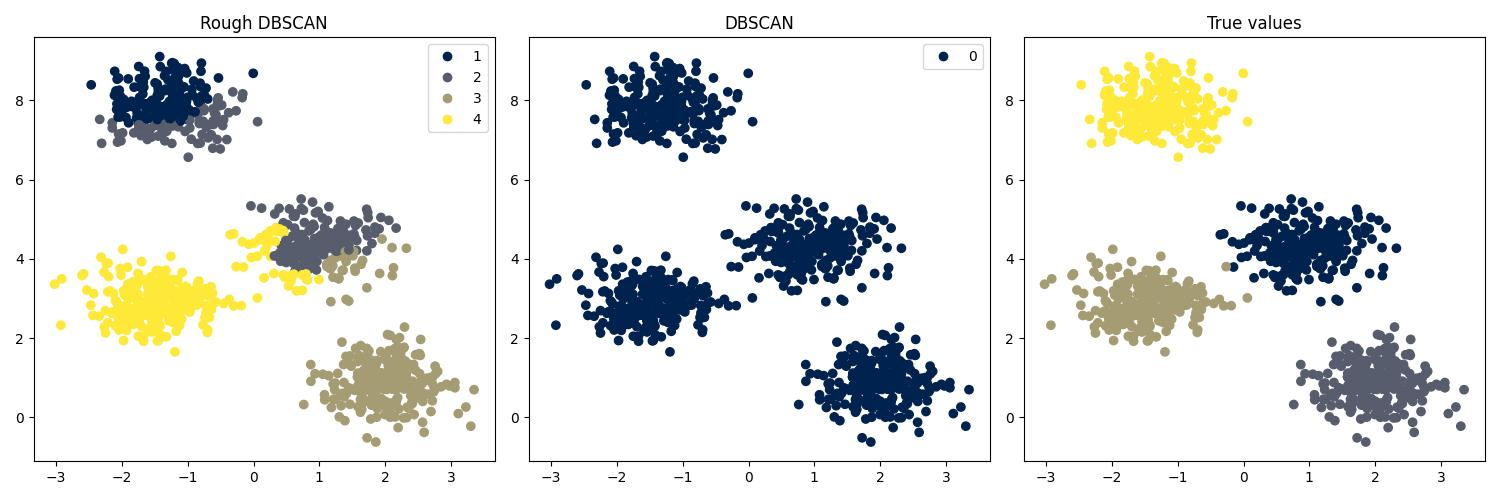
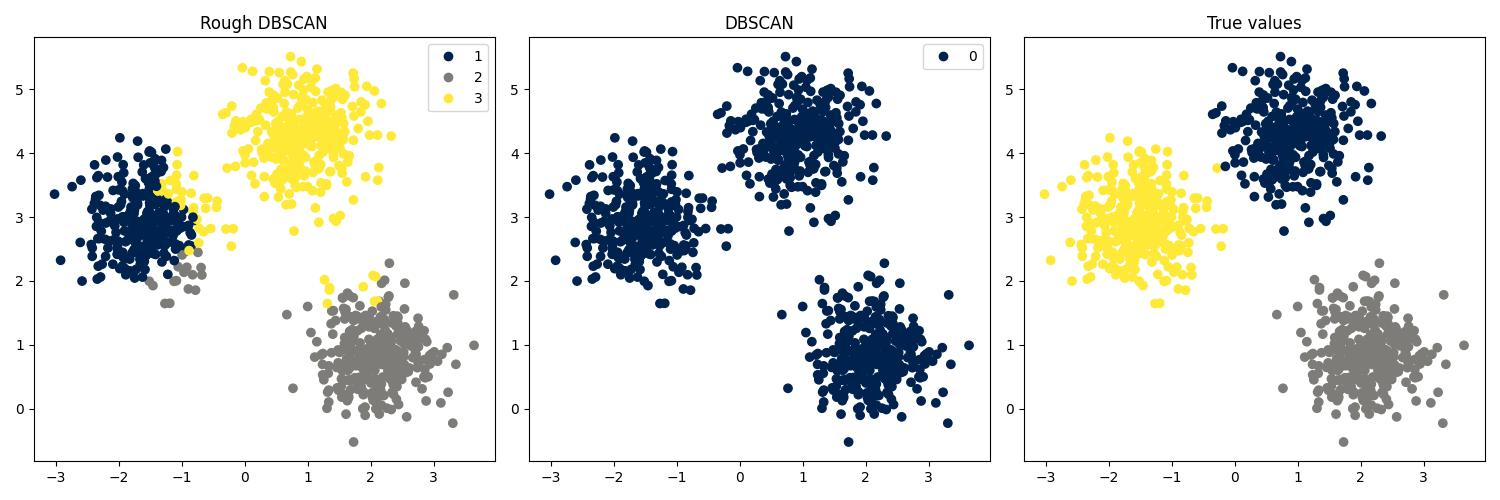
Refactor Experiments

diff --git a/utils/experiments.py b/utils/experiments.py
@@ -1,0 +1,118 @@
+
+import os
+import time
+import matplotlib.pyplot as plt
+
+from models.Rough_DBSCAN import Rough_DBSCAN
+from sklearn.cluster import DBSCAN
+from sklearn.metrics.cluster import rand_score
+
+
+def experiment(X, Y, epsilon, minPts, radius, root_saving="../visuals/", verbose=True):
+
+    if verbose:
+        print("\nStarting RoughDBSCAN")
+        print(f"Parameters: Epsilon={epsilon}, MinPts={minPts}, Radius={radius}")
+    rdbscan = Rough_DBSCAN(epsilon, minPts, radius)
+
+    if verbose:
+        print("Fitting...")
+
+    toR = time.time()
+    predictR = rdbscan.fit_predict(X, verbose=verbose)
+    tfR = time.time() - toR
+
+    if verbose:
+        print(predictR)
+        print("\nStarting DBSCAN")
+        print(f"Parameters: Epsilon={epsilon}, MinPts={minPts}")
+    dbscan = DBSCAN(eps=epsilon, min_samples=minPts)
+
+    if verbose:
+        print("Fitting...")
+    toD = time.time()
+    predictD = dbscan.fit_predict(X)
+    tfD = time.time() - toD
+
+    if verbose:
+        print(predictD)
+        print("\nPlotting results")
+
+    generate_plots(X, Y, predictR, rdbscan.leaders, tfR, predictD, tfD,
+                   radius, root_saving=root_saving)
+
+
+def generate_plots(X, Y, predictR, leaders, tfR, predictD, tfD,
+                   radius, root_saving="../visuals/", cmap_plots="cividis"):
+
+    # Create folder
+    if not os.path.exists(root_saving):
+        os.makedirs(root_saving)
+
+
+    # Results RDBSCAN
+    fig, (ax1, ax2, ax3) = plt.subplots(1, 3, figsize=(15, 5))
+
+    scatter1 = ax1.scatter(X[:, 0], X[:, 1], c=predictR, cmap=cmap_plots, label=predictR)
+    ax1.legend(*scatter1.legend_elements())
+    ax1.set_title("Rough DBSCAN")
+
+    ax2.scatter(X[:, 0], X[:, 1], c=Y, cmap=cmap_plots)
+    for pts in leaders:
+        ax2.scatter(pts[0], pts[1], c="crimson")
+        circle = plt.Circle(xy=(pts[0], pts[1]), radius=radius, color="crimson", alpha=0.25)
+        ax2.add_patch(circle)
+    ax2.set_title("Leaders")
+
+    ax3.scatter(X[:, 0], X[:, 1], c=Y, cmap=cmap_plots)
+    ax3.set_title("True values")
+
+    plt.tight_layout()
+    plt.savefig(root_saving + "rdbscan_all.jpg")
+
+
+    # Leaders RDBSCAN
+    fig, ax = plt.subplots(1, 1, figsize=(8, 8))
+    ax.scatter(X[:, 0], X[:, 1], c=Y, cmap=cmap_plots)
+    for pts in leaders:
+        ax.scatter(pts[0], pts[1], c="crimson")
+        circle = plt.Circle(xy=(pts[0], pts[1]), radius=radius, color="crimson", alpha=0.25)
+        ax.add_patch(circle)
+    ax.set_title("Leaders")
+
+    plt.tight_layout()
+    plt.savefig(root_saving + "rdbscan_leaders.jpg")
+
+
+    # Results DBSCAN vs RDBSCAN
+    fig, (ax1, ax2, ax3) = plt.subplots(1, 3, figsize=(15, 5))
+
+    scatter1 = ax1.scatter(X[:, 0], X[:, 1], c=predictR, cmap=cmap_plots, label=predictR)
+    ax1.legend(*scatter1.legend_elements())
+    ax1.set_title("Rough DBSCAN")
+
+    scatter2 = ax2.scatter(X[:, 0], X[:, 1], c=predictD, cmap=cmap_plots, label=predictD)
+    ax2.legend(*scatter2.legend_elements())
+    ax2.set_title("DBSCAN")
+
+    ax3.scatter(X[:, 0], X[:, 1], c=Y, cmap=cmap_plots)
+    ax3.set_title("True values")
+
+    plt.tight_layout()
+    plt.savefig(root_saving + "comparison_models.jpg")
+
+
+    # Metrics DBSCAN vs RDBSCAN
+    fig, (ax1, ax2) = plt.subplots(1, 2, figsize=(10, 5))
+
+    bar1 = ax1.bar(["Rough DBSCAN", "DBSCAN"], [rand_score(Y, predictR), rand_score(Y, predictD)], color=["tab:orange", "tab:cyan"])
+    ax1.bar_label(bar1, fmt='%.2f')
+    ax1.set_ylim([0, 1])
+    ax1.set_title("Rand Index")
+
+    bar2 = ax2.bar(["Rough DBSCAN", "DBSCAN"], [tfR, tfD], color=["tab:orange", "tab:cyan"])
+    ax2.bar_label(bar2, fmt='%.2f')
+    ax2.set_title("Time")
+
+    plt.tight_layout()
+    plt.savefig(root_saving + "metrics_models.jpg")

diff --git a/experiments/experiment_blobs.py b/experiments/experiment_blobs.py
@@ -1,53 +1,22 @@
 
-from models.Rough_DBSCAN import Rough_DBSCAN
-from utils.metrics import generate_results
-from sklearn.cluster import DBSCAN
-from sklearn.datasets import make_blobs
-
-import time
+from utils.datasets import blobs
+from utils.experiments import experiment
 
 root_saving = "../visuals/blobs/"
 
 
-
 if __name__ == "__main__":
 
-    print("\n-------- Starting Test --------\n")
+    # Hyperparameters
     n_samples = 1000
-    centers = 4
+    centers = 3
     cluster_std = 0.5
 
-    epsilon = 4
-    minPts = 10
-    radius = 0.45
+    epsilon = 2.45
+    minPts = 30
+    radius = 0.4
 
 
-    print("Generating BLOBS dataset")
-    X, Y = make_blobs(n_samples=n_samples, centers=centers, cluster_std=cluster_std, random_state=0)
-
-
-    print("Starting RoughDBSCAN")
-    print(f"Parameters: Epsilon={epsilon}, MinPts={minPts}, Radius={radius}")
-    rdbscan = Rough_DBSCAN(epsilon, minPts, radius)
-
-    print("Fitting...")
-    toR = time.time()
-    predictR = rdbscan.fit_predict(X)
-    tfR = time.time() - toR
-    print(predictR)
-
-
-    print("\nStarting DBSCAN")
-    print(f"Parameters: Epsilon={epsilon}, MinPts={minPts}")
-    dbscan = DBSCAN(eps=epsilon, min_samples=minPts)
-
-    print("Fitting...")
-    toD = time.time()
-    predictD = dbscan.fit_predict(X)
-    tfD = time.time() - toD
-    print(predictD)
-
-
-    print("\nPlotting results")
-    generate_results(X, Y, predictR, rdbscan.leaders, tfR, predictD, tfD,
-                     epsilon, minPts, radius, root_saving)
+    # Execute experiments
+    X, Y = blobs(n_samples=n_samples, centers=centers, cluster_std=cluster_std, random_state=0)
+    experiment(X=X, Y=Y, epsilon=epsilon, minPts=minPts, radius=radius, root_saving=root_saving)

diff --git a/utils/datasets.py b/utils/datasets.py
@@ -1,0 +1,38 @@
+
+from sklearn.datasets import make_moons
+from sklearn.datasets import make_blobs
+
+
+def banana(n_samples, noise, random_state=0, verbose=True):
+    if verbose:
+        print("\n-------- Starting Test --------\n")
+        print("Generating BANANA dataset")
+    return make_moons(n_samples=n_samples, noise=noise, random_state=random_state)
+
+
+def blobs(n_samples, centers, cluster_std, random_state=0, verbose=True):
+    if verbose:
+        print("\n-------- Starting Test --------\n")
+        print("Generating BLOBS dataset")
+    return make_blobs(n_samples=n_samples, centers=centers, cluster_std=cluster_std, random_state=random_state)
+
+
+def letter(verbose=True):
+    if verbose:
+        print("\n-------- Starting Test --------\n")
+        print("Loading LETTER dataset")
+    pass
+
+
+def pendigits(verbose=True):
+    if verbose:
+        print("\n-------- Starting Test --------\n")
+        print("Loading PENDIGITS dataset")
+    pass
+
+
+def shuttle(verbose=True):
+    if verbose:
+        print("\n-------- Starting Test --------\n")
+        print("Loading SHUTTLE dataset")
+    pass

diff --git a/utils/tools.py b/utils/tools.py
@@ -4,7 +4,8 @@ from scipy.spatial.distance import euclidean
 
 
 def coincidence(main, search):
-    # When there are many such leaders then choose the first one according to the ordering in which the set L is created.
+    # When there are many such leaders then choose the first one
+    # according to the ordering in which the set L is created.
     for m in main:
         for s in search:
             if np.array_equal(m, s):
@@ -13,5 +14,4 @@ def coincidence(main, search):
 
 def find_N(l, L, e):
     distances = [euclidean(l, t) for t in L]
-    #return np.where([False if d==0 else d<=e for d in distances])[0]
     return np.where([d<=e for d in distances])[0]

diff --git a/experiments/experiment_pendigits.py b/experiments/experiment_pendigits.py
@@ -1,8 +1,8 @@
 
-from utils.datasets import banana
+from utils.datasets import pendigits
 from utils.experiments import experiment
 
-root_saving = "../visuals/banana/"
+root_saving = "../visuals/pendigits/"
 
 
 if __name__ == "__main__":
@@ -15,7 +15,7 @@ if __name__ == "__main__":
     minPts = 3
     radius = 0.2
 
-    
+
     # Execute experiments
-    X, Y = banana(n_samples=n_samples, noise=noise, random_state=0)
+    X, Y = pendigits()
     experiment(X=X, Y=Y, epsilon=epsilon, minPts=minPts, radius=radius, root_saving=root_saving)

diff --git a/experiments/experiment_shuttle.py b/experiments/experiment_shuttle.py
@@ -1,8 +1,8 @@
 
-from utils.datasets import banana
+from utils.datasets import shuttle
 from utils.experiments import experiment
 
-root_saving = "../visuals/banana/"
+root_saving = "../visuals/shuttle/"
 
 
 if __name__ == "__main__":
@@ -15,7 +15,7 @@ if __name__ == "__main__":
     minPts = 3
     radius = 0.2
 
-    
+
     # Execute experiments
-    X, Y = banana(n_samples=n_samples, noise=noise, random_state=0)
+    X, Y = shuttle()
     experiment(X=X, Y=Y, epsilon=epsilon, minPts=minPts, radius=radius, root_saving=root_saving)

diff --git a/experiments/experiment_letter.py b/experiments/experiment_letter.py
@@ -1,8 +1,8 @@
 
-from utils.datasets import banana
+from utils.datasets import letter
 from utils.experiments import experiment
 
-root_saving = "../visuals/banana/"
+root_saving = "../visuals/letter/"
 
 
 if __name__ == "__main__":
@@ -15,7 +15,7 @@ if __name__ == "__main__":
     minPts = 3
     radius = 0.2
 
-    
+
     # Execute experiments
-    X, Y = banana(n_samples=n_samples, noise=noise, random_state=0)
+    X, Y = letter()
     experiment(X=X, Y=Y, epsilon=epsilon, minPts=minPts, radius=radius, root_saving=root_saving)
